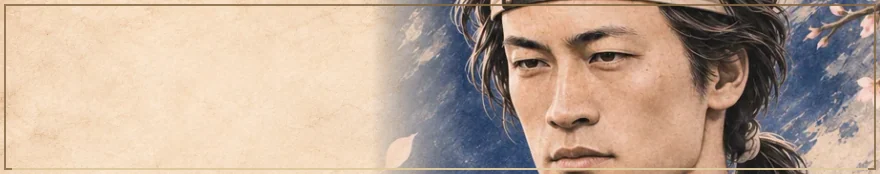
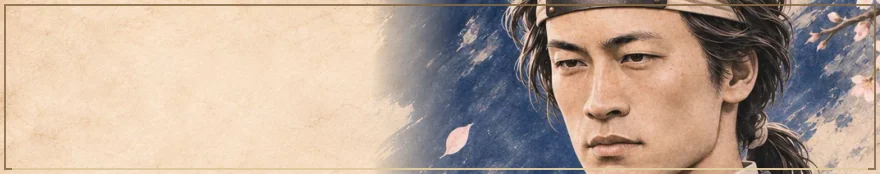
Pull back and right-align Hijikata relative to Kondo

Changed region(s): [[0.4295, 0.0, 1.0, 1.0]]

diff --git a/banner-gallery.html b/banner-gallery.html
@@ -9,7 +9,7 @@ for(const b of document.querySelectorAll('.tools button'))b.addEventListener('cl
 fetch('collection.html').then(r=>r.text()).then(html=>{
  const doc=new DOMParser().parseFromString(html,'text/html');const source=[...doc.querySelectorAll('.card')];const list=document.getElementById('list');
  source.forEach((card,i)=>{const id=i+1,side=i<20?'0':'1',name=card.querySelector('summary h3').textContent,role=side==='0'?card.querySelector('.role').textContent:clans[i-20];const fig=document.createElement('figure');fig.className='item';fig.dataset.side=side;
- const frame=document.createElement('div');frame.className='banner';const img=new Image();img.src='assets/dialogue_banners/person_'+String(id).padStart(2,'0')+'.webp?v=face-fade-20261107f';img.loading='lazy';img.alt='';frame.append(img);
+ const frame=document.createElement('div');frame.className='banner';const img=new Image();img.src='assets/dialogue_banners/person_'+String(id).padStart(2,'0')+'.webp?v=kondo-hijikata-20261107g';img.loading='lazy';img.alt='';frame.append(img);
  const copy=document.createElement('div');copy.className='copy';const n=document.createElement('div');n.className='name';n.textContent=name;const meta=document.createElement('div');meta.className='meta';const r=document.createElement('span');r.className='role';r.textContent=role;const p=document.createElement('span');p.className='piece';p.textContent=id===1||id===21?'玉':'駒';meta.append(r,p);copy.append(n,meta);frame.append(copy);
  const cap=document.createElement('figcaption');const left=document.createElement('span');left.textContent=String(id).padStart(2,'0')+'　'+name;const right=document.createElement('span');right.textContent=side==='0'?'新選組':'薩長';cap.append(left,right);fig.append(frame,cap);list.append(fig)});
 }).catch(()=>{document.getElementById('list').textContent='一覧を読み込めませんでした。'});
